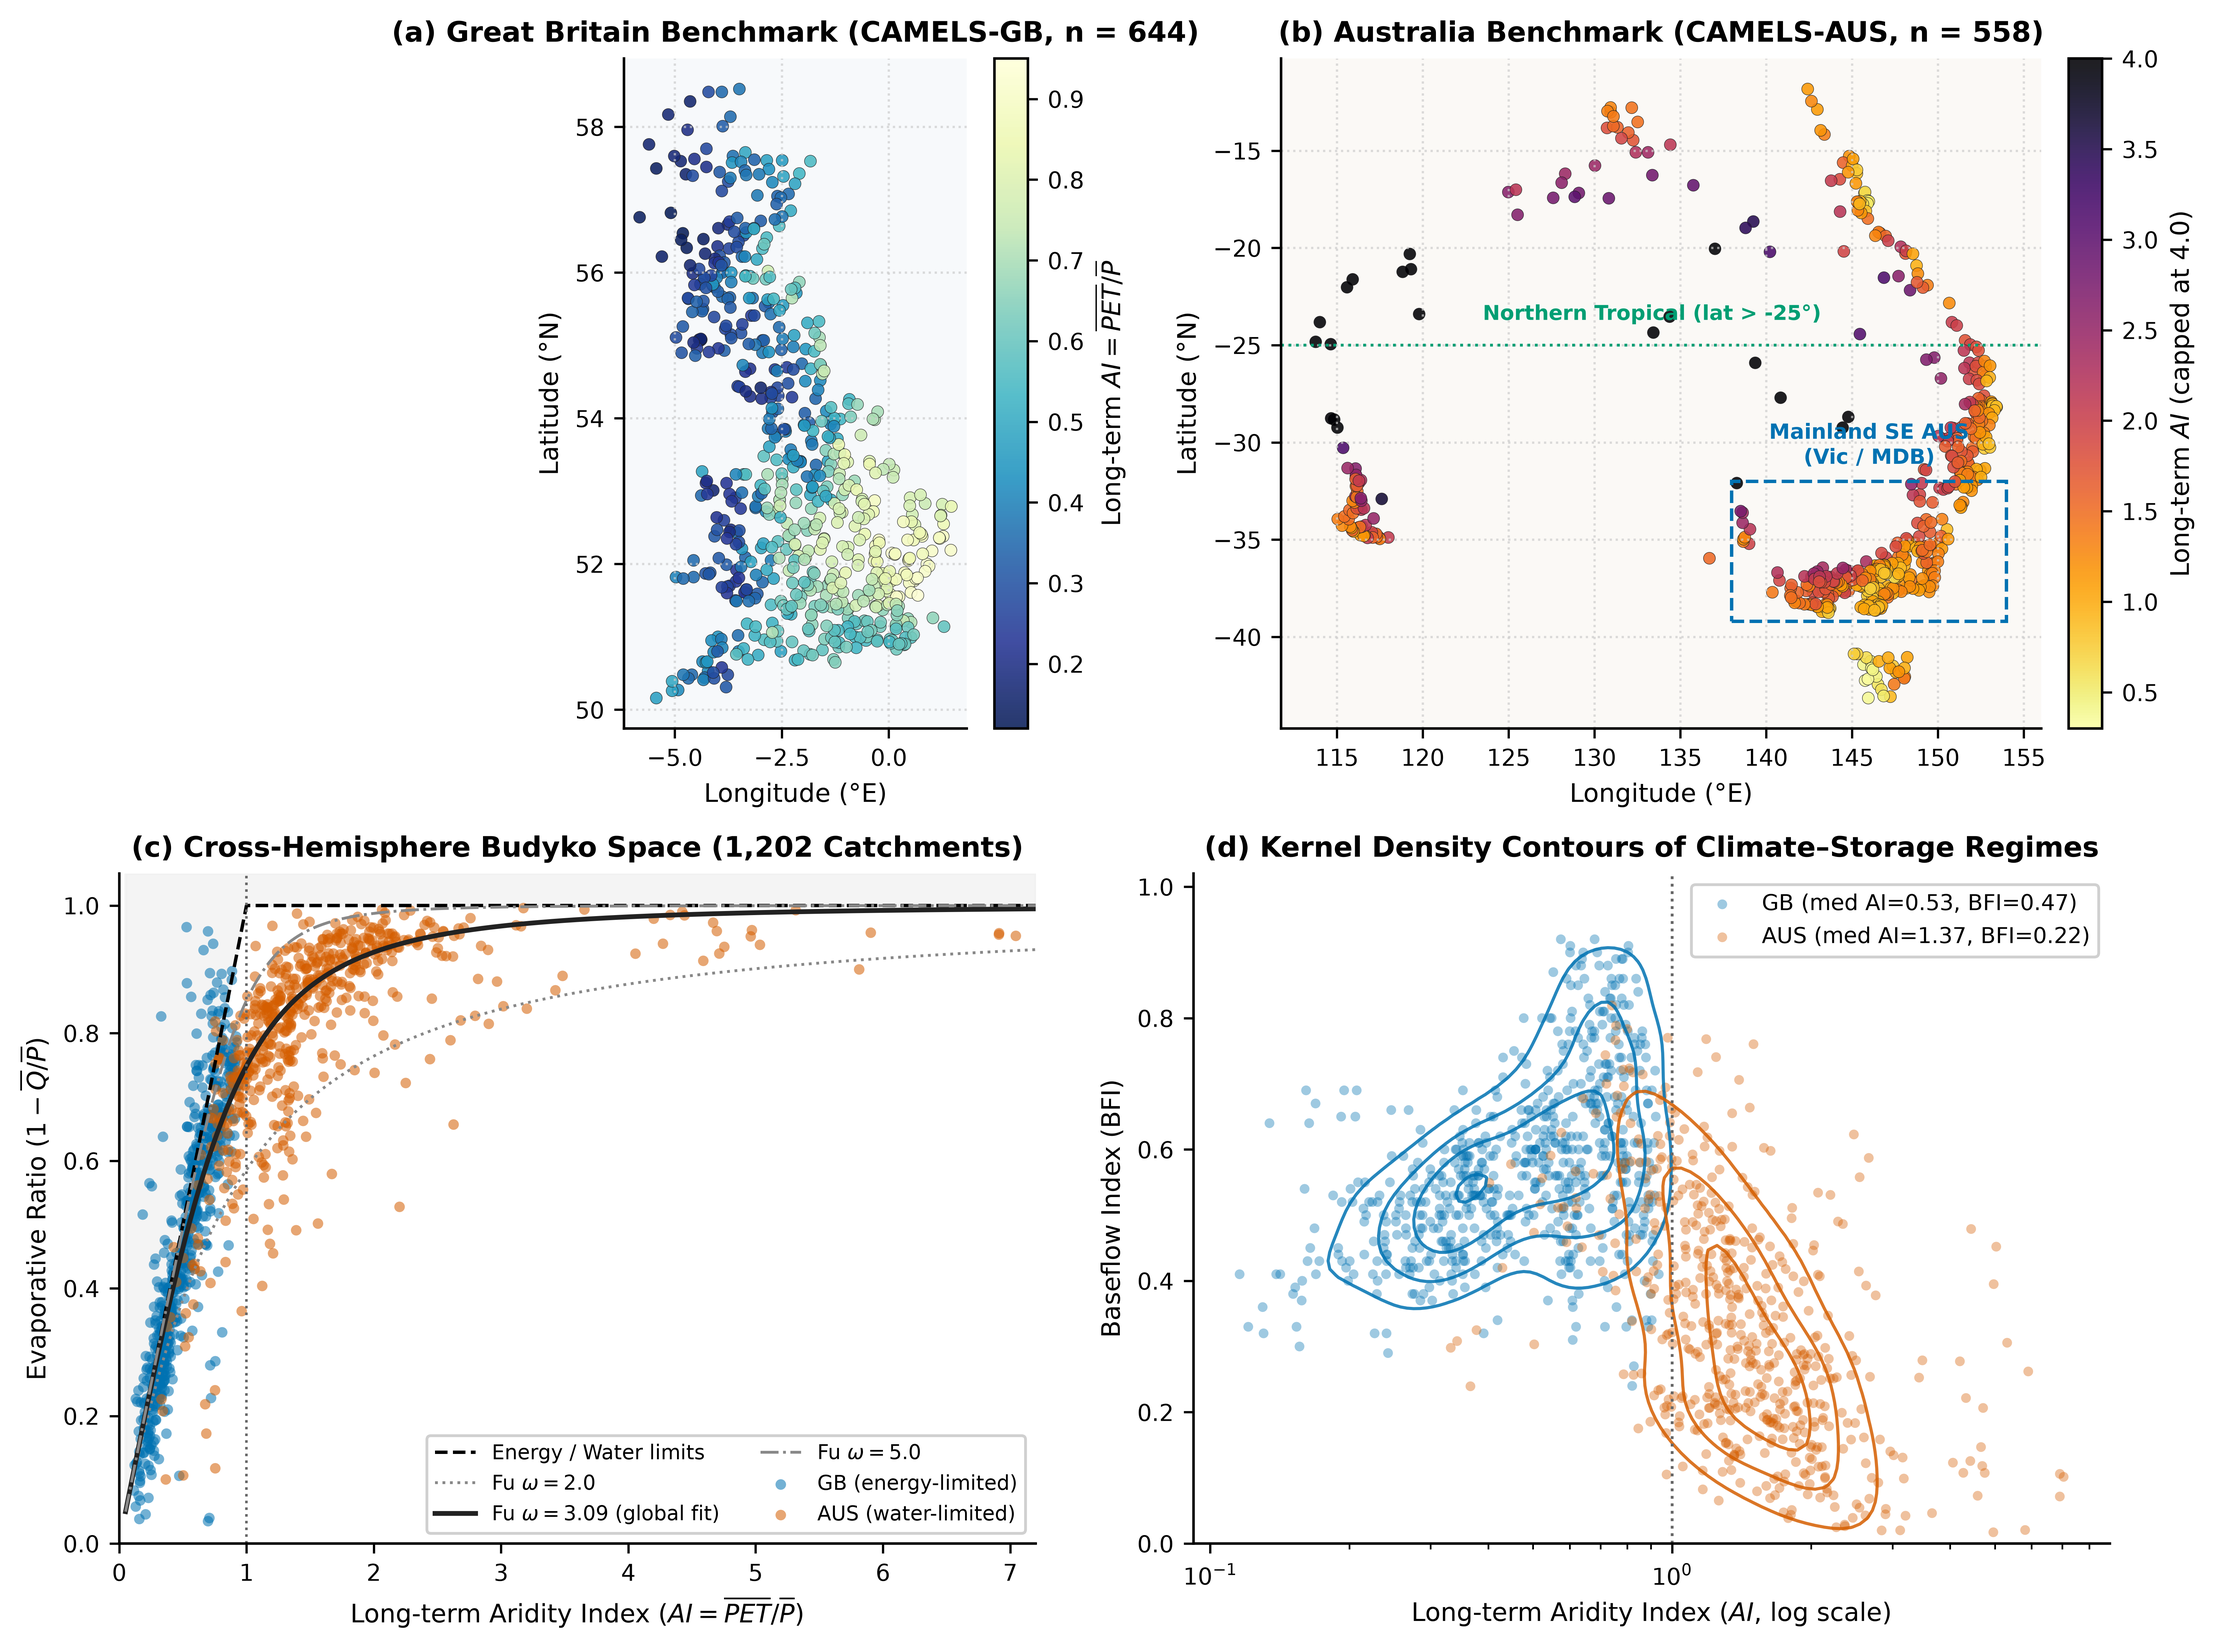
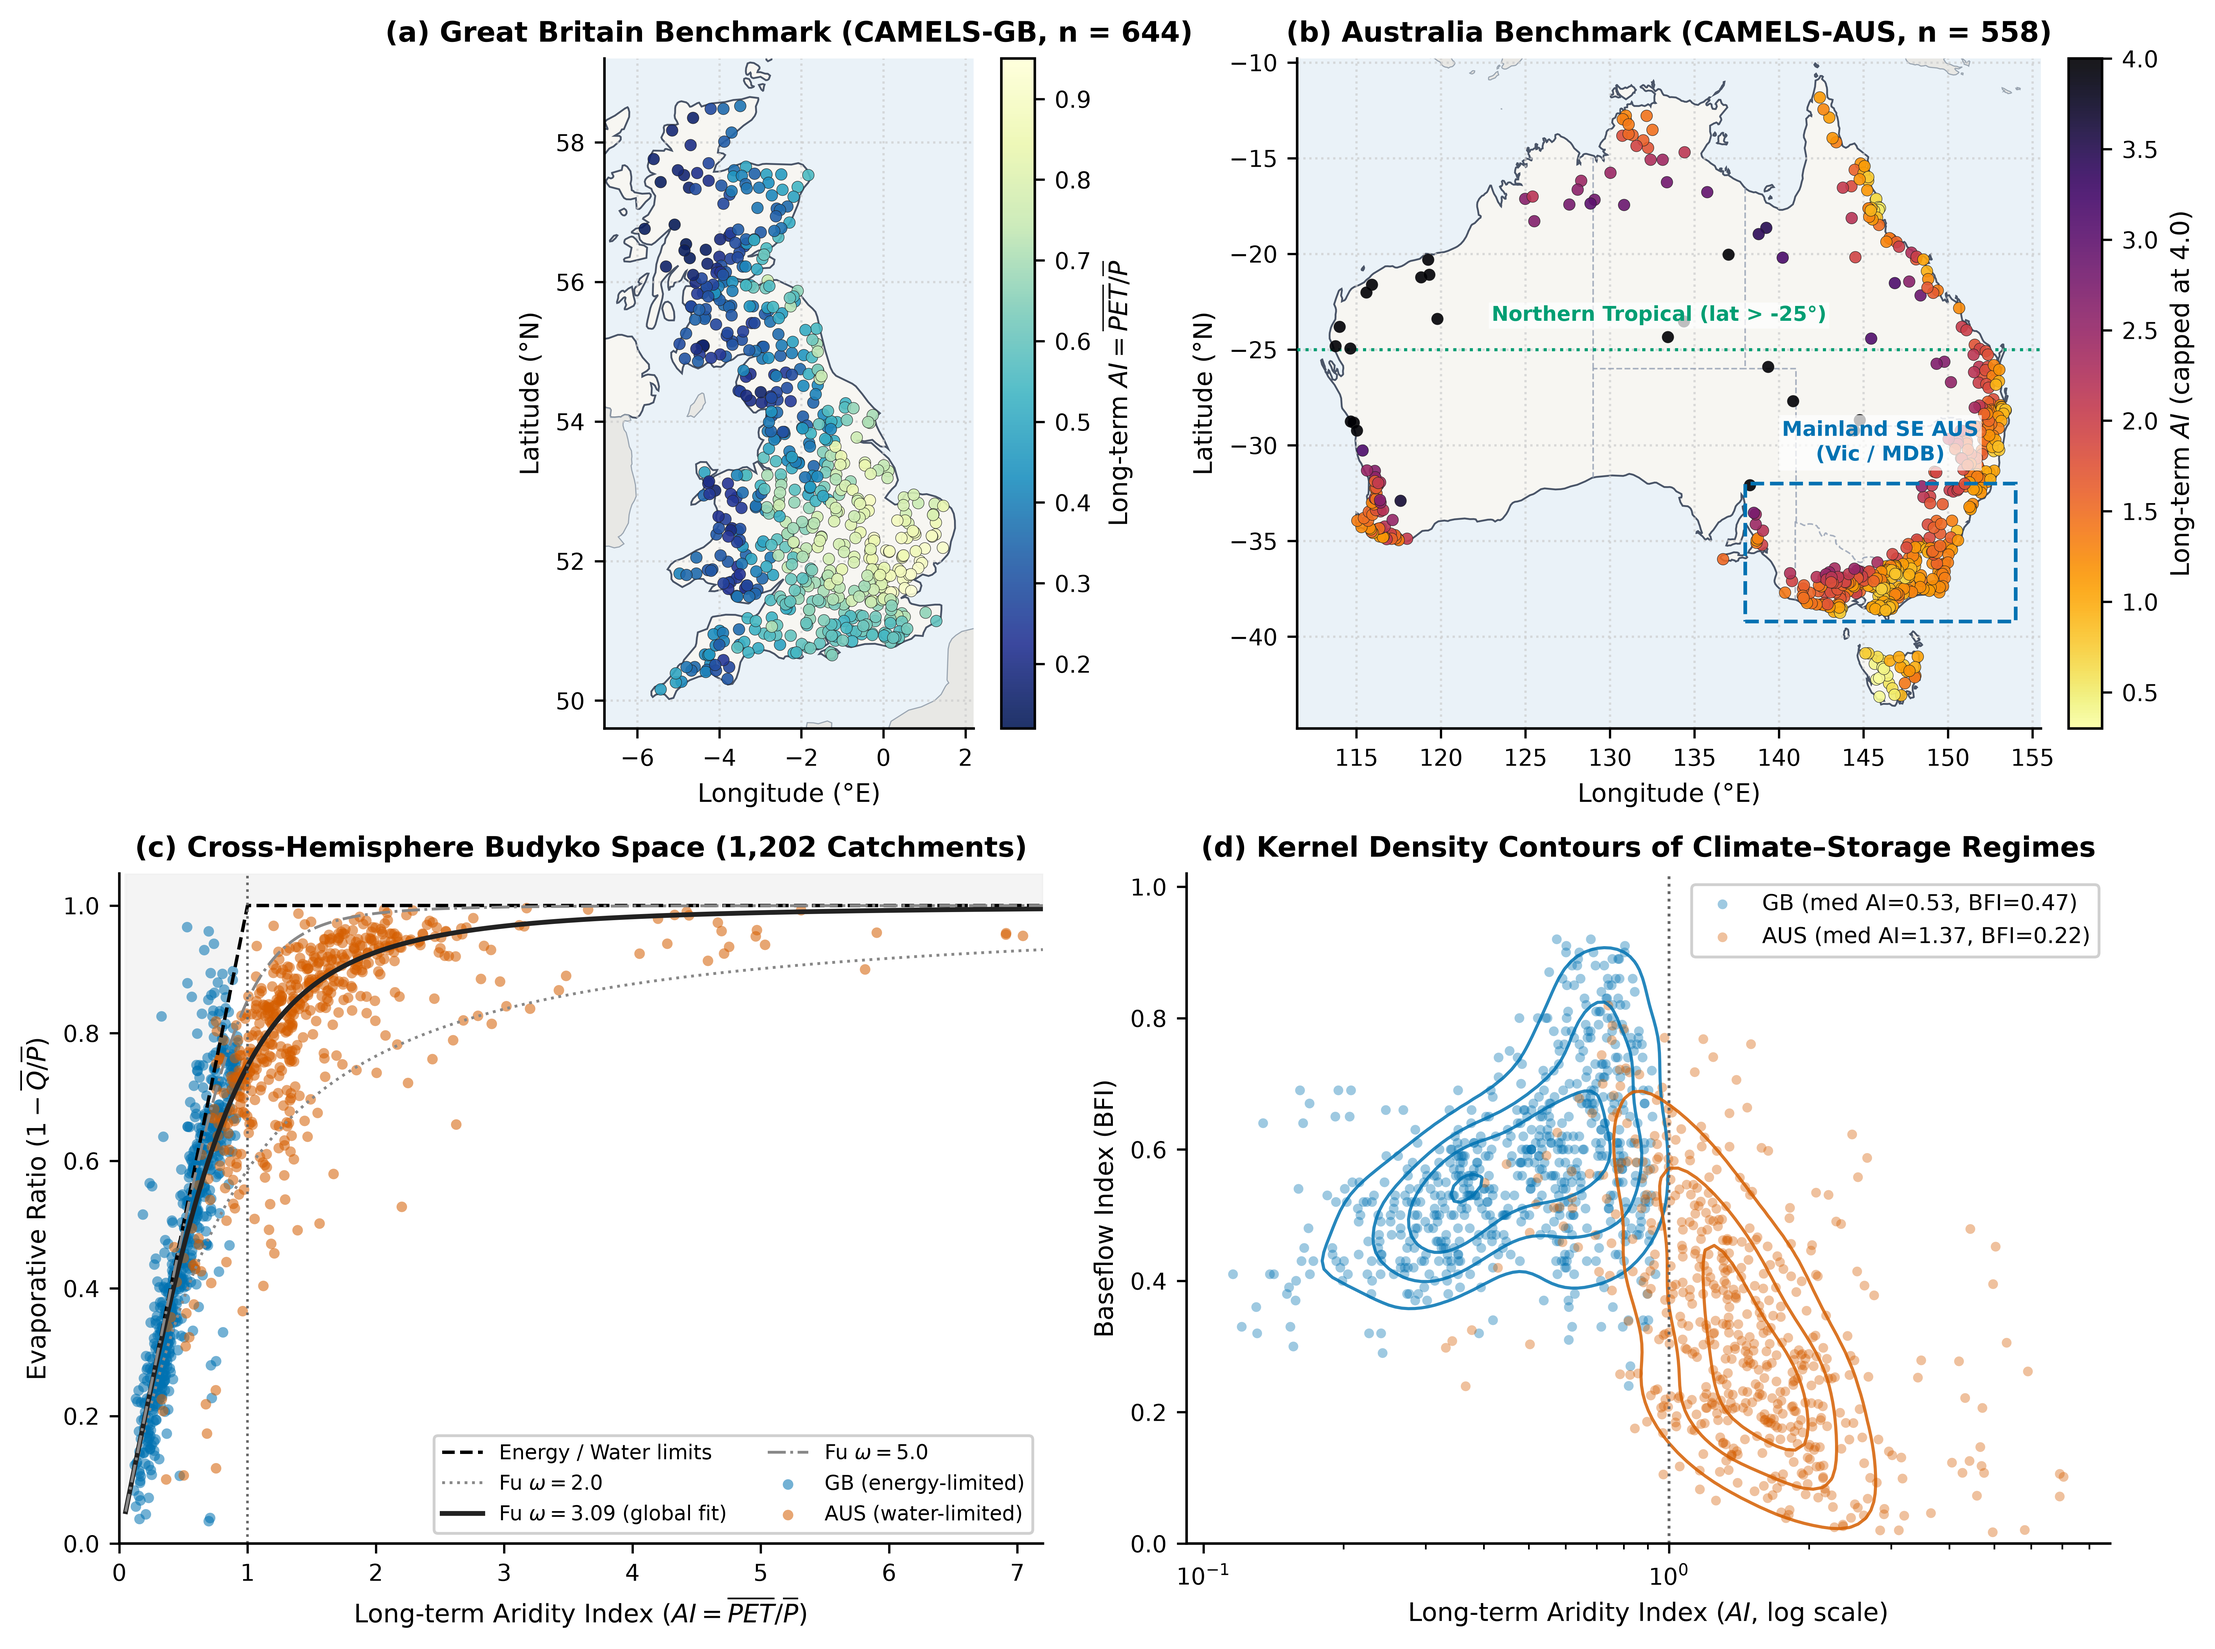
Add Natural Earth 1:50m coastlines and AUS state borders to Fig1, sync Fig3a 0.0785, and unify fit_omega bounds

diff --git a/scripts/05_generate_top_journal_figures.py b/scripts/05_generate_top_journal_figures.py
@@ -20,7 +20,8 @@ from sklearn.ensemble import HistGradientBoostingRegressor
 import matplotlib
 matplotlib.use("Agg")
 import matplotlib.pyplot as plt
-from matplotlib.patches import Rectangle
+from matplotlib.patches import Rectangle, Polygon
+from matplotlib.collections import PatchCollection, LineCollection
 
 ROOT = "/Users/yueliangmanle/Desktop/MESE_Budyko_UQ"
 DATA_DIR = os.path.join(ROOT, "data")
@@ -114,6 +115,49 @@ def compute_s3_curves_if_needed():
     return np.load(cache)
 
 
+
+def draw_basemap(ax, iso_codes, xlim, ylim, draw_states=False):
+    geo_dir = os.path.join(DATA_DIR, "geo")
+    c_path = os.path.join(geo_dir, "ne_50m_countries.geojson")
+    s_path = os.path.join(geo_dir, "ne_50m_states.geojson")
+    ax.set_facecolor("#EAF2F8")  # subtle ocean tint
+    if os.path.exists(c_path):
+        gj = json.load(open(c_path, encoding="utf-8"))
+        patches = []
+        for feat in gj["features"]:
+            props = feat.get("properties", {})
+            iso = props.get("ISO_A3") or props.get("ADM0_A3") or ""
+            # Draw target countries in crisp warm ivory, neighbors in muted light gray
+            is_tgt = iso in iso_codes
+            geom = feat["geometry"]
+            polys = [geom["coordinates"]] if geom["type"] == "Polygon" else (geom["coordinates"] if geom["type"] == "MultiPolygon" else [])
+            for poly in polys:
+                ring = poly[0]
+                xs = [pt[0] for pt in ring]; ys = [pt[1] for pt in ring]
+                if max(xs) < xlim[0] - 2 or min(xs) > xlim[1] + 2 or max(ys) < ylim[0] - 2 or min(ys) > ylim[1] + 2:
+                    continue
+                ax.add_patch(Polygon(
+                    ring, closed=True,
+                    facecolor="#F7F6F2" if is_tgt else "#E8E8E5",
+                    edgecolor="#4A5568" if is_tgt else "#9AA5B1",
+                    linewidth=0.65 if is_tgt else 0.4,
+                    zorder=1
+                ))
+    if draw_states and os.path.exists(s_path):
+        sgj = json.load(open(s_path, encoding="utf-8"))
+        segs = []
+        for feat in sgj["features"]:
+            geom = feat["geometry"]
+            lines = [geom["coordinates"]] if geom["type"] == "LineString" else (geom["coordinates"] if geom["type"] == "MultiLineString" else [])
+            for line in lines:
+                xs = [pt[0] for pt in line]; ys = [pt[1] for pt in line]
+                if max(xs) < xlim[0] or min(xs) > xlim[1] or max(ys) < ylim[0] or min(ys) > ylim[1]:
+                    continue
+                segs.append(line)
+        if segs:
+            ax.add_collection(LineCollection(segs, colors="#8D99AE", linewidths=0.55, linestyles="--", alpha=0.75, zorder=2))
+    ax.set_xlim(xlim); ax.set_ylim(ylim)
+
 def make_fig1(attrs):
     gb = [r for r in attrs if r["region"] == "GB"]
     aus = [r for r in attrs if r["region"] == "AUS"]
@@ -125,11 +169,11 @@ def make_fig1(attrs):
     gb_lon = np.array([float(r["lon"]) for r in gb])
     gb_lat = np.array([float(r["lat"]) for r in gb])
     gb_ai = np.array([float(r["long_term_AI"]) for r in gb])
-    sc1 = ax1.scatter(gb_lon, gb_lat, c=gb_ai, cmap="YlGnBu_r", s=18, vmin=0.12, vmax=0.95, alpha=0.88, edgecolors="#222222", linewidths=0.18)
+    draw_basemap(ax1, {"GBR"}, xlim=(-6.8, 2.2), ylim=(49.6, 59.2), draw_states=False)
+    sc1 = ax1.scatter(gb_lon, gb_lat, c=gb_ai, cmap="YlGnBu_r", s=17, vmin=0.12, vmax=0.95, alpha=0.90, edgecolors="#222222", linewidths=0.18, zorder=4)
     cb1 = plt.colorbar(sc1, ax=ax1, fraction=0.045, pad=0.03)
     cb1.set_label(r"Long-term $AI = \overline{PET}/\overline{P}$")
     ax1.set_aspect(1.0 / math.cos(math.radians(54.0)))
-    ax1.set_facecolor("#F7F9FB")
     ax1.grid(True, ls=":", color="#CCCCCC", alpha=0.7)
     ax1.set_xlabel("Longitude (°E)")
     ax1.set_ylabel("Latitude (°N)")
@@ -139,16 +183,18 @@ def make_fig1(attrs):
     aus_lon = np.array([float(r["lon"]) for r in aus])
     aus_lat = np.array([float(r["lat"]) for r in aus])
     aus_ai = np.array([float(r["long_term_AI"]) for r in aus])
-    sc2 = ax2.scatter(aus_lon, aus_lat, c=np.clip(aus_ai, 0.3, 4.0), cmap="inferno_r", s=18, vmin=0.3, vmax=4.0, alpha=0.88, edgecolors="#222222", linewidths=0.18)
+    draw_basemap(ax2, {"AUS"}, xlim=(111.5, 155.5), ylim=(-44.8, -9.8), draw_states=True)
+    sc2 = ax2.scatter(aus_lon, aus_lat, c=np.clip(aus_ai, 0.3, 4.0), cmap="inferno_r", s=17, vmin=0.3, vmax=4.0, alpha=0.90, edgecolors="#222222", linewidths=0.18, zorder=4)
     cb2 = plt.colorbar(sc2, ax=ax2, fraction=0.045, pad=0.03)
     cb2.set_label(r"Long-term $AI$ (capped at 4.0)")
-    rect = Rectangle((138.0, -39.2), 16.0, 7.2, lw=1.2, ls="--", edgecolor=C_BLUE, facecolor="none", zorder=5)
+    rect = Rectangle((138.0, -39.2), 16.0, 7.2, lw=1.3, ls="--", edgecolor=C_BLUE, facecolor="none", zorder=5)
     ax2.add_patch(rect)
-    ax2.text(146.0, -31.1, "Mainland SE AUS\n(Vic / MDB)", color=C_BLUE, fontsize=7.4, ha="center", fontweight="bold")
-    ax2.axhline(-25.0, color=C_GREEN, ls=":", lw=1.0)
-    ax2.text(123.5, -23.7, "Northern Tropical (lat > -25°)", color=C_GREEN, fontsize=7.3, fontweight="bold")
+    ax2.text(146.0, -30.8, "Mainland SE AUS\n(Vic / MDB)", color=C_BLUE, fontsize=7.3, ha="center", fontweight="bold",
+             bbox=dict(facecolor="white", edgecolor="none", alpha=0.72, pad=1.0), zorder=6)
+    ax2.axhline(-25.0, color=C_GREEN, ls=":", lw=1.1, zorder=3)
+    ax2.text(123.0, -23.5, "Northern Tropical (lat > -25°)", color=C_GREEN, fontsize=7.2, fontweight="bold",
+             bbox=dict(facecolor="white", edgecolor="none", alpha=0.72, pad=1.0), zorder=6)
     ax2.set_aspect(1.0 / math.cos(math.radians(-28.0)))
-    ax2.set_facecolor("#FBF9F6")
     ax2.grid(True, ls=":", color="#CCCCCC", alpha=0.7)
     ax2.set_xlabel("Longitude (°E)")
     ax2.set_ylabel("Latitude (°N)")
@@ -298,7 +344,7 @@ def make_fig3():
     ax1.text(0.04, 0.94,
              "S1 Gauged Temporal (n = 10,432)\n"
              "M4 Dyn. HGBR: RMSE = 0.0768, R² = 0.920\n"
-             "M5 PhysRes:   RMSE = 0.0783, R² = 0.916\n"
+             "M5 PhysRes:   RMSE = 0.0785, R² = 0.916\n"
              "M2 Dyn. ARX:  RMSE = 0.0887, R² = 0.893\n"
              "M1 Basin Fu:  RMSE = 0.1004, R² = 0.863",
              transform=ax1.transAxes, va="top", fontsize=7.4, family="monospace",

diff --git a/scripts/07_p0_rigorous_checks.py b/scripts/07_p0_rigorous_checks.py
@@ -35,7 +35,7 @@ def fu_rr(ai, omega):
 
 
 def fit_omega(ai, rr):
-    res = minimize_scalar(lambda w: float(np.mean((fu_rr(ai, w) - rr) ** 2)), bounds=(1.05, 12.0), method="bounded")
+    res = minimize_scalar(lambda w: float(np.mean((fu_rr(ai, w) - rr) ** 2)), bounds=(1.1, 10.0), method="bounded")
     return float(res.x)
 
 
